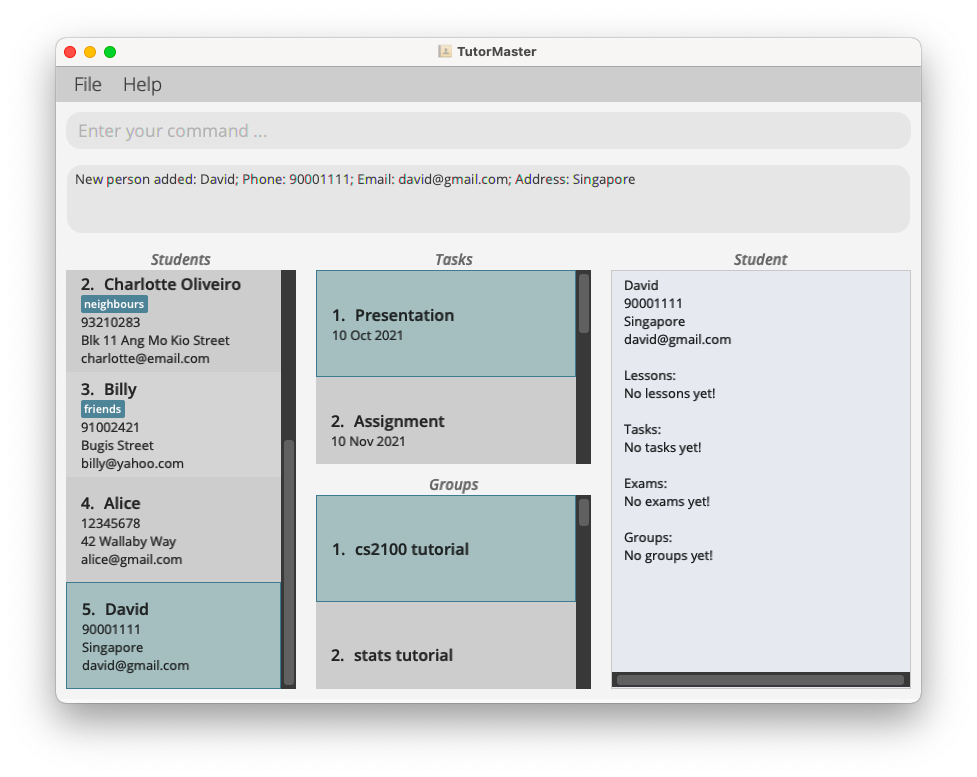
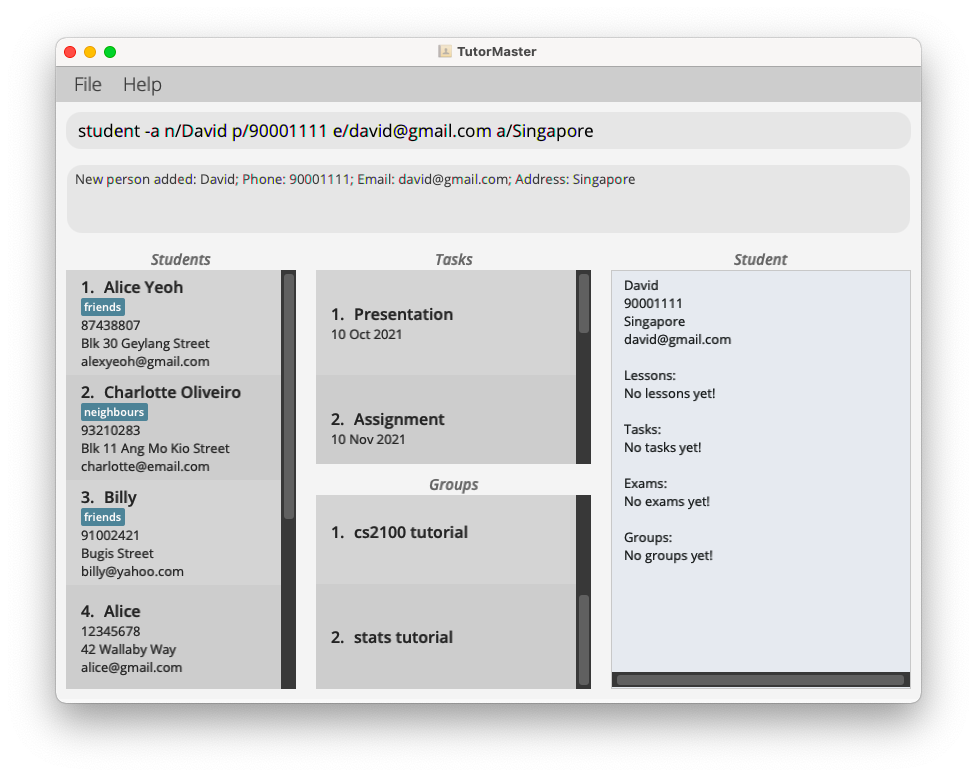
Add screenshots to UG

diff --git a/docs/UserGuide.md b/docs/UserGuide.md
@@ -65,8 +65,7 @@ Let's try adding a student with the following details:
    * This adds a student with the details specified.
    * You will now be able to see __David__ at the entry in the person panel on the left,
    as shown in the image below.
-
-<br> <-- insert image here --> Just added David.
+   ![Add David](images/imagesInUG/student-addDavid.png)
 
 2. Now lets try editing his address. Note the index number beside his name in the person panel, in this case it is 5.<br>
    Type the following command `student -e 5 a/Kent Ridge` and hit `Enter`.
@@ -277,7 +276,7 @@ Format: `student -dl PERSON_INDEX LESSON_INDEX`
 * Both `PERSON_INDEX` and `LESSON_INDEX` must be a positive number.
 * The `LESSON_INDEX` can be found by using the [student viewing command](#viewing-a-student-student--v) as shown below.
 
-![studentLessonIndex](images/LessonIndex.png)
+![studentLessonIndex](images/imagesInUG/student-findLesson.png)
 
 Example:
 * `student -dl 1 1` deletes the first lesson from the first student.
